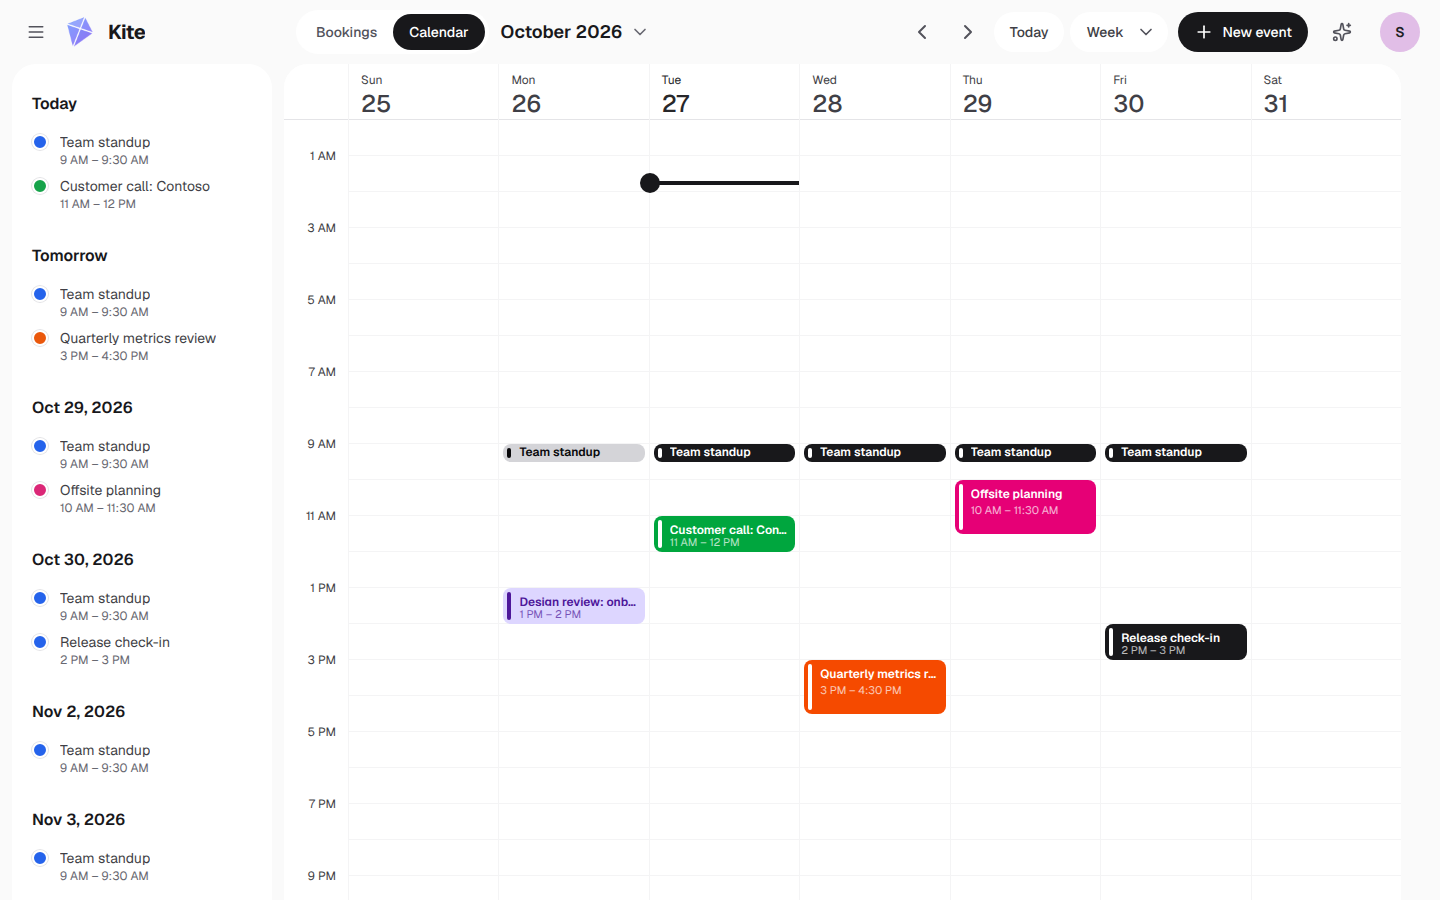
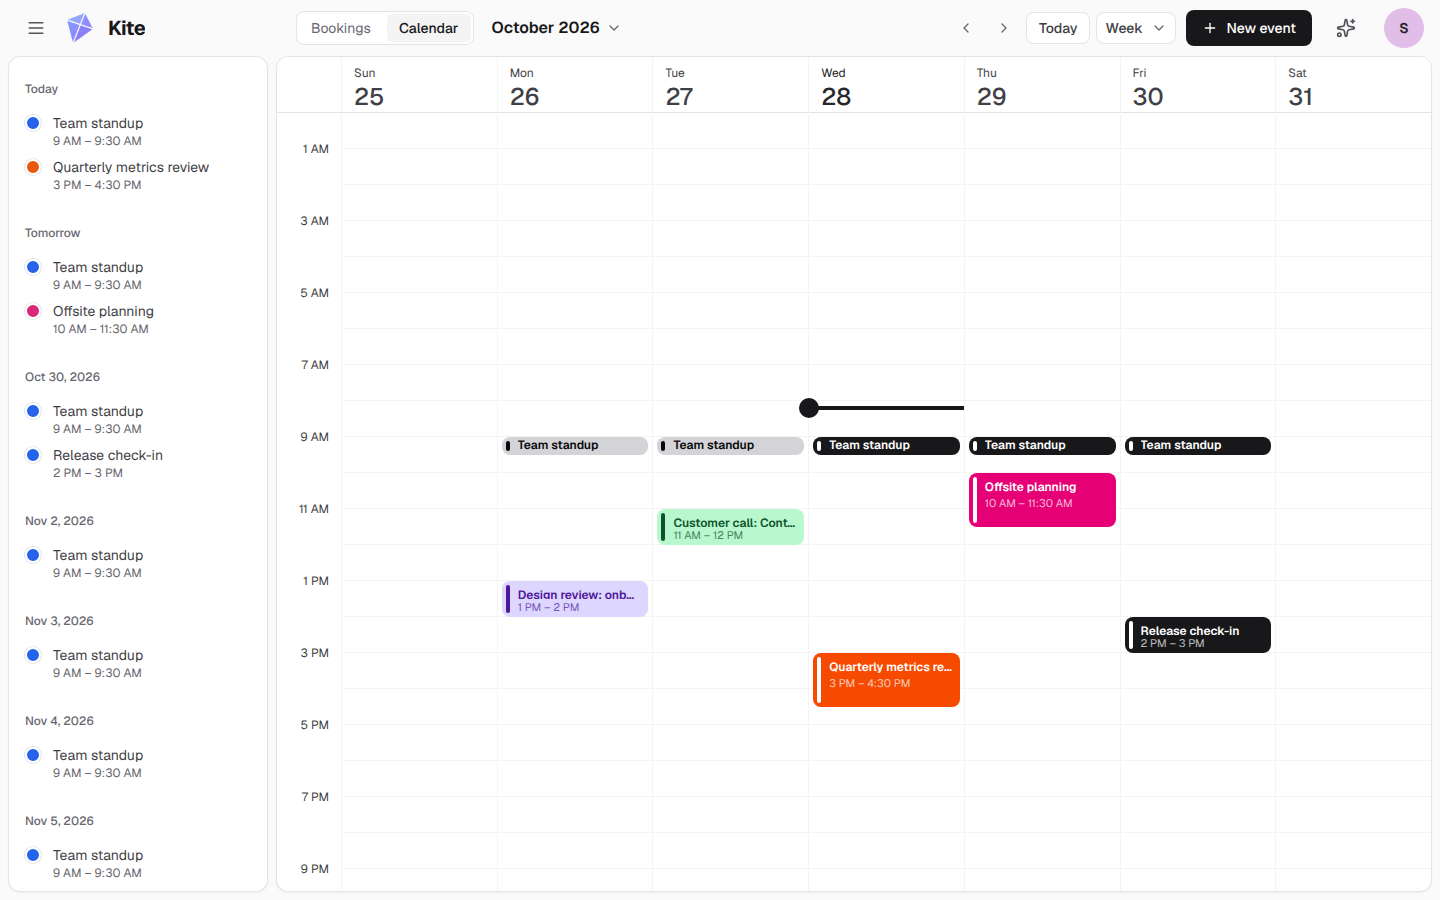
Zero look app pages: changelog, For you spec follows the title bar, screenshot captures for the app pages

diff --git a/scripts/screenshots/readme.capture.ts b/scripts/screenshots/readme.capture.ts
@@ -161,6 +161,25 @@ for (const [name, appearance] of [
 	});
 }
 
+// The pages around the mail: what Kite noticed, subscriptions, files and booking events.
+for (const [name, path, ready, appearance] of [
+	["for-you", "/for-you", "What Kite noticed in your mail.", {}],
+	["for-you-dark", "/for-you", "What Kite noticed in your mail.", { theme: "dark" }],
+	["finance", "/finance", "Paid in the last 12 months", {}],
+	["finance-dark", "/finance", "Paid in the last 12 months", { theme: "dark" }],
+	["drive", "/drive", "My Drive", {}],
+	["drive-dark", "/drive", "My Drive", { theme: "dark" }],
+	["booking", "/booking", "Set the meetings people can book with you.", {}],
+	["booking-dark", "/booking", "Set the meetings people can book with you.", { theme: "dark" }],
+] as const) {
+	test(name, async ({ browser }) => {
+		const page = await open(browser, appearance);
+		await page.goto(path);
+		await expect(page.getByRole("main").getByText(ready, { exact: false }).first()).toBeVisible();
+		await capture(page, `pages/${name}`);
+	});
+}
+
 test("command-palette", async ({ browser }) => {
 	const page = await open(browser);
 	await page.goto("/inbox");

diff --git a/e2e/23-auto-agent.spec.ts b/e2e/23-auto-agent.spec.ts
@@ -3747,9 +3747,11 @@ test.describe("reply suggestions", () => {
 
 				await forYouItem(page).getByRole("link").click();
 				await expect(page).toHaveURL(/\/for-you$/);
-				const icon = page.getByRole("heading", { level: 1 }).locator("svg");
+				// The page's title bar carries a muted icon beside the heading, as the list panel does.
+				const icon = page.locator("[data-panel-header] svg").first();
+				await expect(page.getByRole("heading", { level: 1, name: "For you" })).toBeVisible();
 				await expect(page.locator(`[data-for-you-entry]`)).toHaveCount(1);
-				const iconColor = await colorProbe(page, icon, "color", "text-blue-600");
+				const iconColor = await colorProbe(page, icon, "color", "text-neutral-500");
 				expect(iconColor.actual, `${style.name} For you`).toEqual(iconColor.expected);
 				await expect(page.locator("body")).not.toContainText(/mailflare/i);
 			}

diff --git a/changelog.d/zero-look-app-pages.md b/changelog.d/zero-look-app-pages.md
@@ -1,0 +1,9 @@
+### Changed
+
+- [For you](/for-you), [Activity](/kite-activity), [Subscriptions](/finance) and [Drive](/drive) have the new look: a slim title bar with the page's actions at the top of the panel, bordered cards and lists, muted section labels and empty states. Drive's menu matches the mail sidebar, with your mailboxes at the top, **New** as a full-width button and the operational notices above Settings.
+- [Calendar](/calendar) and [Bookings](/booking) show the upcoming events and the calendar or booking list as rounded panels, with a quieter toolbar: a Bookings/Calendar switch, small square arrows, **Today**, the view menu and **New event**. The view menu is now the same menu as elsewhere.
+- The search suggestions under the mail search and the contact details follow the new look too.
+
+### Fixed
+
+- The **Setup** buttons in the DNS rows of [Admin → Domains](/domains) were hard to read, most of all while DNS is managed by hand; they now have a solid face and readable text in light and dark mode.
